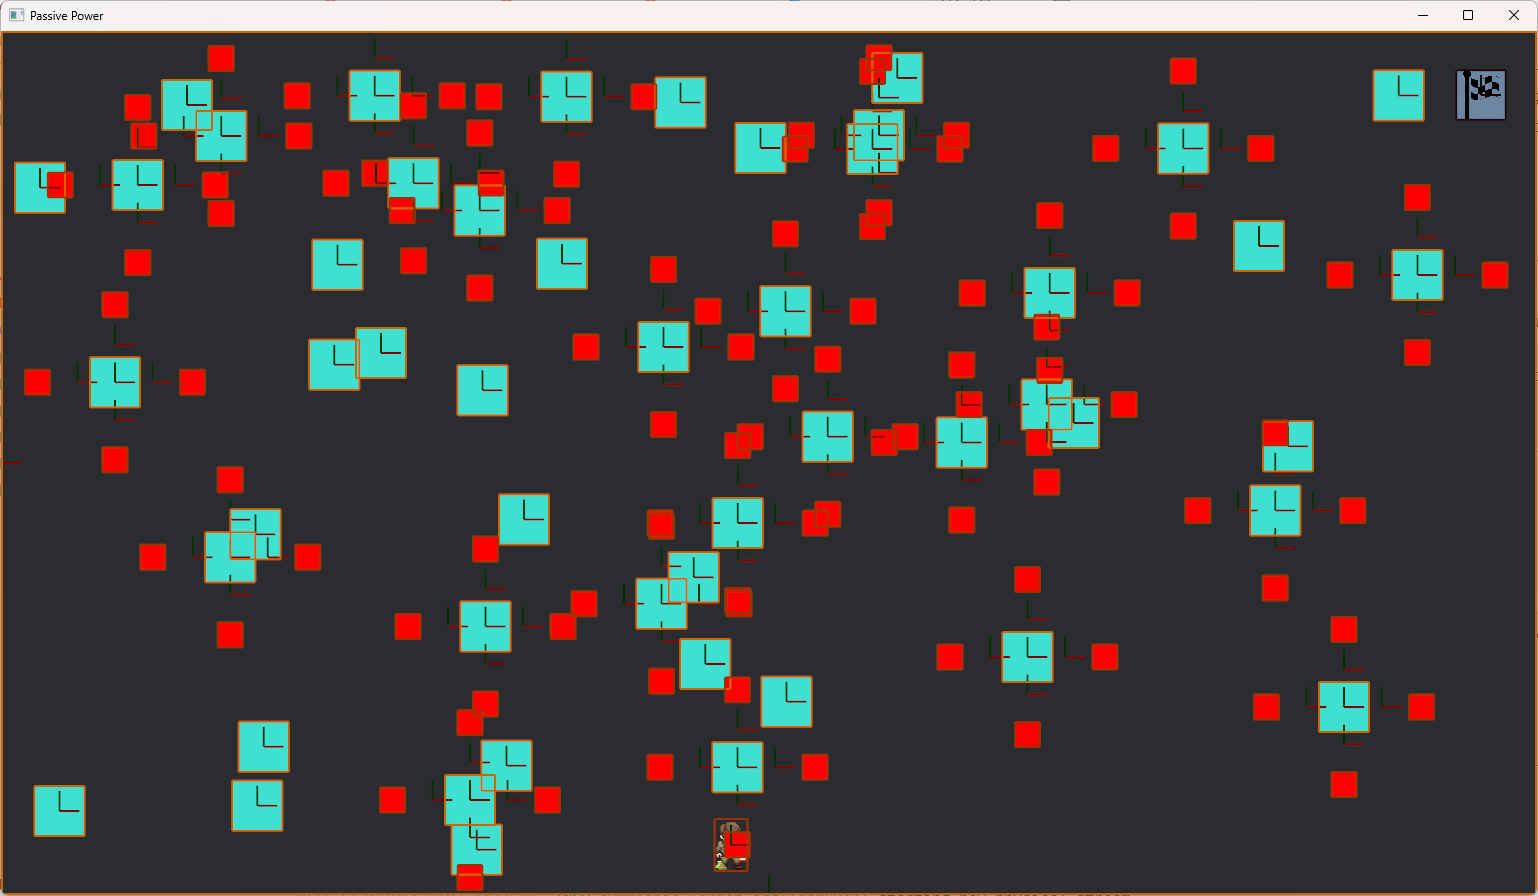
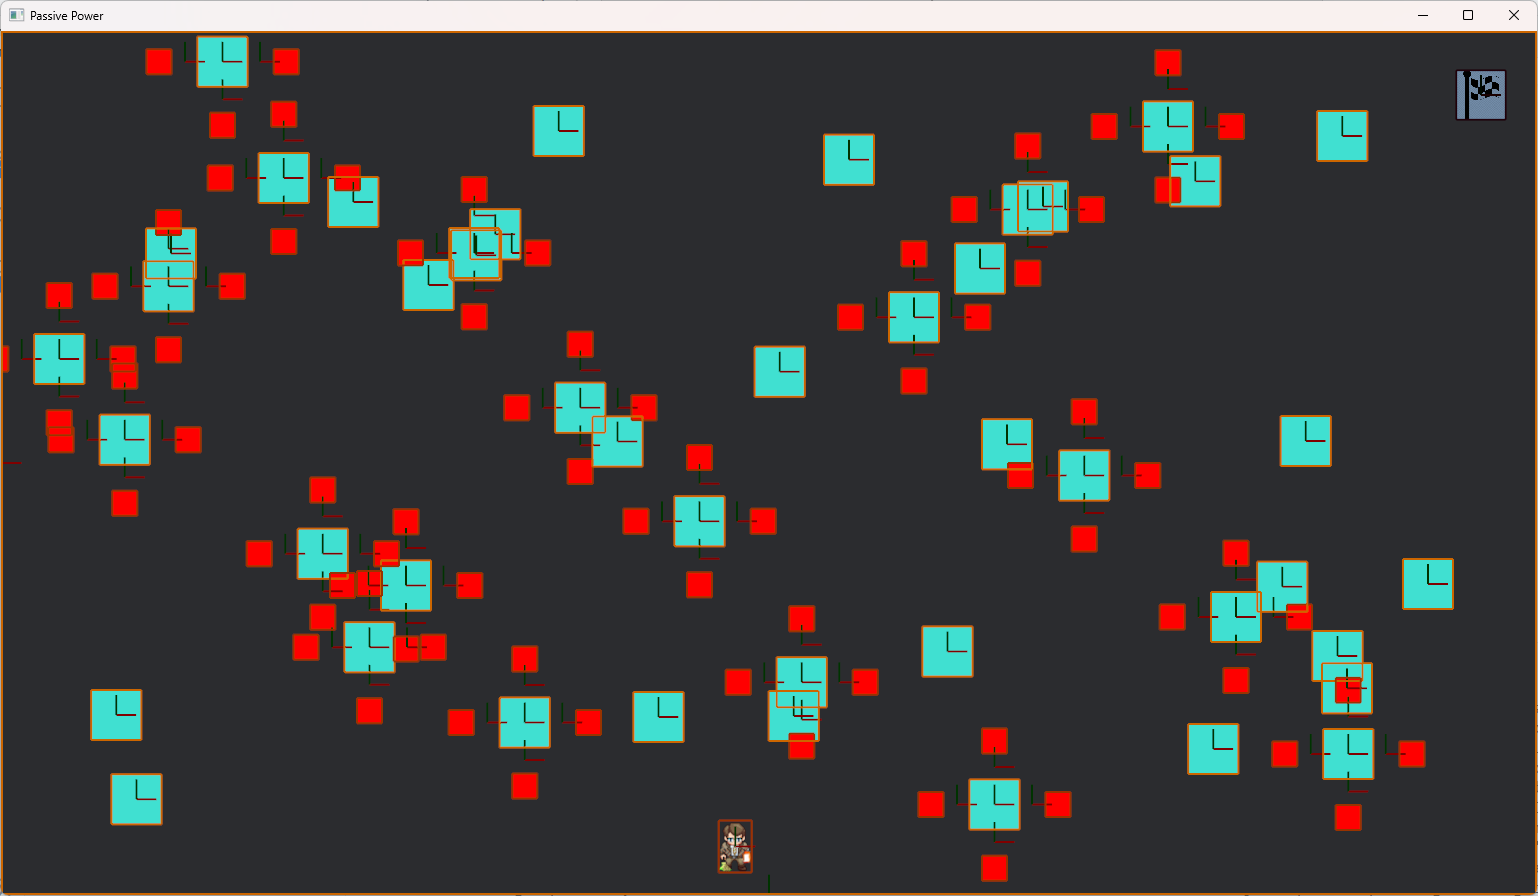
update map object spawning

diff --git a/game/src/environment.rs b/game/src/environment.rs
@@ -63,17 +63,62 @@ impl PlatformBundle {
     }
 }
 
+fn overlaps(fst: (f32, f32), snd: (f32, f32)) -> bool {
+    return (fst.0 - 30. < snd.0 && snd.0 < fst.0 + 30.)
+        || (fst.1 - 30. < snd.1 && snd.1 < fst.1 + 30.);
+}
+
+fn is_invalid_spot(spots: Vec<(f32, f32)>, new_spot: (f32, f32)) -> bool {
+    for spot in spots {
+        if overlaps(spot, new_spot) {
+            return true;
+        }
+    }
+    false
+}
+
 pub fn setup(
     mut commands: Commands,
     mut meshes: ResMut<Assets<Mesh>>,
     mut materials: ResMut<Assets<ColorMaterial>>,
     asset_server: Res<AssetServer>,
 ) {
-    for _ in 1..=50 {
-        let mut rng = rand::thread_rng();
-        let x: f32 = rng.gen_range(-750.0..=750.0);
-        let y: f32 = rng.gen_range(-400.0..=400.0);
+    let mut spots: Vec<(f32, f32)> = vec![
+        //flag
+        (
+            consts::WINDOW_LEFT_X + 1480.0,
+            consts::WINDOW_BOTTOM_Y + 800.0,
+        ),
+        //player
+        (
+            consts::WINDOW_LEFT_X + 730.0,
+            consts::WINDOW_BOTTOM_Y + 50.0,
+        ),
+    ];
+    let mut rng = rand::thread_rng();
+    for c in 1..=60 {
+        let mut x: f32 = rng.gen_range(consts::WINDOW_LEFT_X+25. ..=consts::WINDOW_WIDTH/2. -25.);
+        let mut y: f32 = rng.gen_range(consts::WINDOW_BOTTOM_Y +25. ..=consts::WINDOW_HEIGHT/2. -25.);
         let is_spawner: i32 = rng.gen_range(0..=1);
+
+        let mut i = 0;
+        while is_invalid_spot(spots.clone(), (x, y)) {
+            x = rng.gen_range(consts::WINDOW_LEFT_X+25. ..=consts::WINDOW_WIDTH/2. -25.);
+            y = rng.gen_range(consts::WINDOW_BOTTOM_Y+25. ..=consts::WINDOW_HEIGHT/2. -25.);
+            i += 1;
+            if i > 100 {
+                break;
+            }
+        }
+
+        if i > 100 {
+            continue;
+        }
+
+        if is_spawner == 1 {
+            spots.push((x, y));
+        }
+        println!("Accept {}", c);
 
         // Cube
         let cube_template = MaterialMesh2dBundle {

diff --git a/game/src/audio.rs b/game/src/audio.rs
@@ -20,15 +20,12 @@ impl Plugin for GameAudioPlugin {
             .add_audio_channel::<Menu>()
             .add_audio_channel::<InGame>()
             .add_audio_channel::<Splash>()
-
             .add_systems(OnEnter(GameState::Menu), start_bgm)
             .add_systems(Update, resume_bgm.run_if(in_state(GameState::Menu)))
             .add_systems(Update, pause_bgm.run_if(in_state(GameState::Game)))
-
             .add_systems(OnEnter(GameState::Game), start_ingame)
             .add_systems(Update, resume_ingame.run_if(in_state(GameState::Game)))
             .add_systems(Update, stop_ingame.run_if(in_state(GameState::Menu)))
-            
             .add_systems(OnEnter(GameState::Splash), play_splash);
     }
 }

diff --git a/game/src/main.rs b/game/src/main.rs
@@ -64,19 +64,15 @@ fn main() {
         }))
         .add_plugins(RapierPhysicsPlugin::<NoUserData>::pixels_per_meter(1e-12)) // Physics plugin
         .add_plugins(RapierDebugRenderPlugin::default())
-
         .insert_resource(DisplayQuality::Medium)
         .insert_resource(Volume(7))
         .add_state::<GameState>()
-
         .add_systems(Startup, setup)
-        
         .add_plugins(splash::SplashPlugin)
         .add_plugins(menu::MenuPlugin)
         .add_plugins(environment::PlatformsPlugin)
         .add_plugins(player::PlayerPlugin)
         .add_plugins(audio::GameAudioPlugin)
-
         .add_systems(OnExit(GameState::Game), despawn_screen::<OnGameScreen>)
         .run();
 }

diff --git a/game/src/player.rs b/game/src/player.rs
@@ -34,7 +34,6 @@ impl Plugin for PlayerPlugin {
             .add_systems(Update, anim_mov_l.run_if(in_state(GameState::Game)))
             .add_systems(Update, anim_mov_r.run_if(in_state(GameState::Game)))
             .add_systems(Update, anim_mov_u.run_if(in_state(GameState::Game)))
-            
             .add_systems(Update, display_events.run_if(in_state(GameState::Game)))
             .insert_resource(GameTimer(Timer::from_seconds(3.0, TimerMode::Once)))
             .add_systems(Update, exit_game.run_if(in_state(GameState::Game)))
